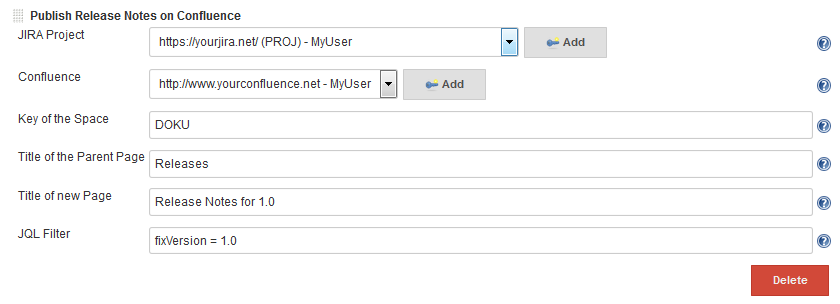
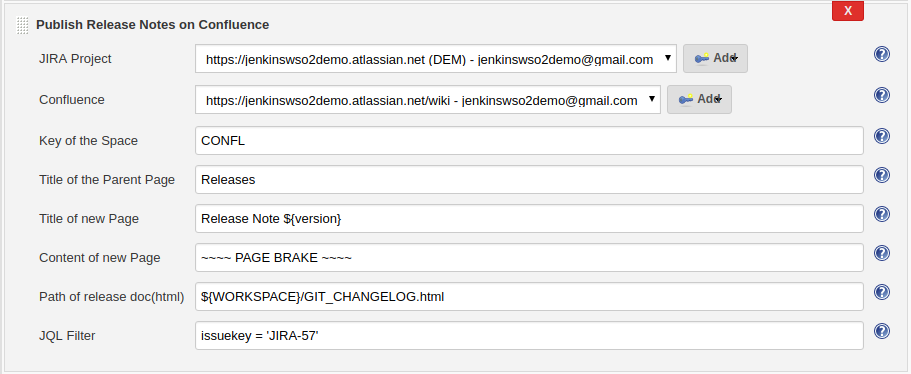
Adding enhanced ability to add text, html  content to confluence release notes

Changed region(s): [[0.0, 0.0, 1.0, 1.0]]

diff --git a/rocks.inspectit.releaseplugin/src/main/resources/rocks/inspectit/releaseplugin/releasenotes/ConfluenceReleaseNotesPublisher/help-releaseDocPath.html b/rocks.inspectit.releaseplugin/src/main/resources/rocks/inspectit/releaseplugin/releasenotes/ConfluenceReleaseNotesPublisher/help-releaseDocPath.html
@@ -1,0 +1,1 @@
+<div>The path of the release document that will be published.</div>

diff --git a/rocks.inspectit.releaseplugin/src/main/resources/rocks/inspectit/releaseplugin/releasenotes/ConfluenceReleaseNotesPublisher/help-pageContent.html b/rocks.inspectit.releaseplugin/src/main/resources/rocks/inspectit/releaseplugin/releasenotes/ConfluenceReleaseNotesPublisher/help-pageContent.html
@@ -1,0 +1,1 @@
+<div>The content of the new page that will be published.</div>

diff --git a/rocks.inspectit.releaseplugin/src/main/java/rocks/inspectit/releaseplugin/releasenotes/ConfluenceReleaseNotesPublisher.java b/rocks.inspectit.releaseplugin/src/main/java/rocks/inspectit/releaseplugin/releasenotes/ConfluenceReleaseNotesPublisher.java
@@ -44,7 +44,14 @@ public class ConfluenceReleaseNotesPublisher extends AbstractJIRAConfluenceActio
 	 * Title of the parent page.
 	 */
 	private String parentPageTitle;
-	
+	/**
+	 * Content of the page to publish.
+	 */
+	private String pageContent;
+	/**
+	 * Path of the doc to publish.
+	 */
+	private String releaseDocPath;
 	
 
 
@@ -58,16 +65,19 @@ public class ConfluenceReleaseNotesPublisher extends AbstractJIRAConfluenceActio
 	 * @param jqlFilter the jql filter
 	 * @param pageTitle the title of the new page
 	 * @param parentPageTitle the title of the parent page
+	 * @param pageContent the content of the new page
 	 */
 	@DataBoundConstructor
 	public ConfluenceReleaseNotesPublisher(String jiraCredentialsID,
 			String confluenceCredentialsID, String spaceKey, String jqlFilter,
-			String pageTitle, String parentPageTitle) {
+			String pageTitle, String parentPageTitle, String pageContent, String releaseDocPath) {
 		super(jiraCredentialsID, confluenceCredentialsID);
 		this.spaceKey = spaceKey;
 		this.jqlFilter = jqlFilter;
 		this.pageTitle = pageTitle;
 		this.parentPageTitle = parentPageTitle;
+		this.pageContent = pageContent;
+		this.releaseDocPath = releaseDocPath;
 	}
 
 	public String getSpaceKey() {
@@ -84,6 +94,14 @@ public class ConfluenceReleaseNotesPublisher extends AbstractJIRAConfluenceActio
 	
 	public String getParentPageTitle() {
 		return parentPageTitle;
+	}
+
+	public String getPageContent() {
+		return pageContent;
+	}
+	
+	public String getReleaseDocPath() {
+		return releaseDocPath;
 	}
 
 	@Override
@@ -103,12 +121,19 @@ public class ConfluenceReleaseNotesPublisher extends AbstractJIRAConfluenceActio
 		String spaceKey = varReplacer.replace(this.spaceKey);
 		String pageTitle = varReplacer.replace(this.pageTitle);
 		String parentPageTitle = varReplacer.replace(this.parentPageTitle);
+		String pageContent = varReplacer.replace(this.pageContent);
+		String releaseDocPath = varReplacer.replace(this.releaseDocPath);
 		
 		List<Issue> tickets = jira.getTicketsByJQL(jqlFilter);
 		
 		logger.println("Publishing " + tickets.size() + " tickets on page '" + pageTitle + "' in space '" + spaceKey + "' on confluence.");
+		logger.println("[Mitra Impementation] Publishing content :\n"
+				+ pageContent + "\n and release doc(html): " + releaseDocPath
+				+ "\n........on confluence.");
 		
 		String pageHTML = jira.buildReleaseNotesHTML(tickets);
+		String docHTML = jira.buildReleaseDocString(releaseDocPath);
+		pageHTML = pageHTML + "\n" + pageContent + "\n\n" + docHTML;
 		
 		Long parentPageID = null;
 		if (!parentPageTitle.isEmpty()) {

diff --git a/rocks.inspectit.releaseplugin/src/main/java/rocks/inspectit/releaseplugin/JIRAAccessTool.java b/rocks.inspectit.releaseplugin/src/main/java/rocks/inspectit/releaseplugin/JIRAAccessTool.java
@@ -1,5 +1,8 @@
 package rocks.inspectit.releaseplugin;
+import java.io.IOException;
 import java.net.URI;
+import java.nio.file.Files;
+import java.nio.file.Paths;
 import java.util.ArrayList;
 import java.util.HashSet;
 import java.util.List;
@@ -309,6 +312,29 @@ public class JIRAAccessTool {
 		}
 		
 		return resultHtml;
+	}
+	
+	/**
+	 * Builds a html document string using the given path variable
+	 * @param docPath path of the html document to publish
+	 * @return a Stroing containing html code
+	 */
+	public String buildReleaseDocString(String docPath) {
+		if (docPath.isEmpty() || docPath == null
+				|| "".equalsIgnoreCase(docPath)) {
+			return "";
+		}
+		String content = "";
+
+		try {
+			content = new String(Files.readAllBytes(Paths.get(docPath)));
+		} catch (IOException e) {
+			e.printStackTrace();
+			throw new RuntimeException("IOException with release doc (html):'"
+					+ e);
+		}
+
+		return content;
 	}
 	
 	/**
